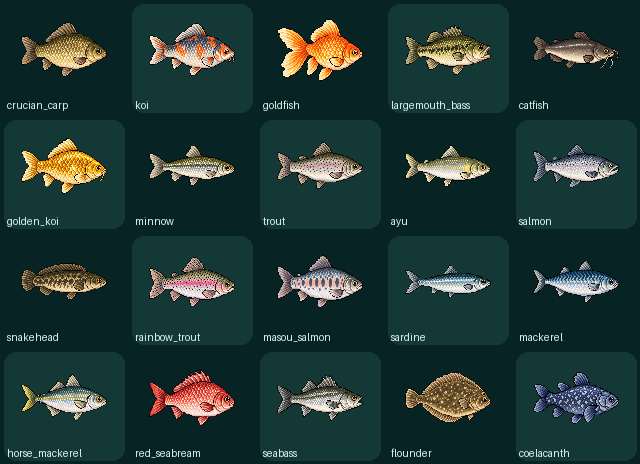
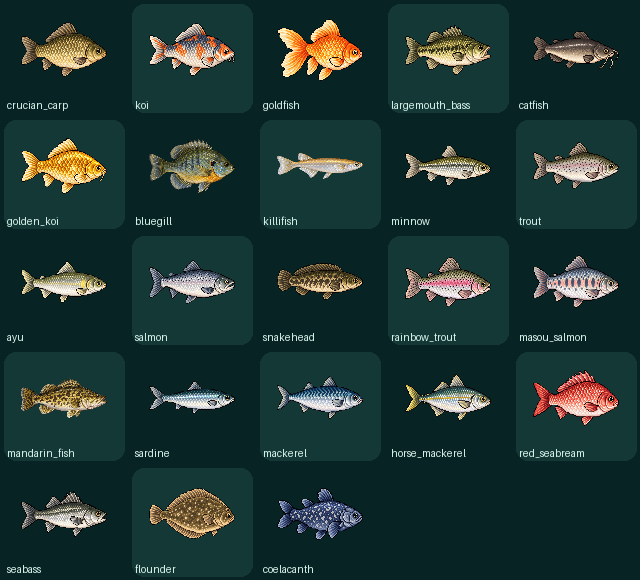
Add three fish to existing habitats

diff --git a/src/data/fish-data.js b/src/data/fish-data.js
@@ -42,6 +42,8 @@ const FISH_DATA=Object.freeze([
   defineFish({id:'fish.largemouth_bass',name:'큰입배스',emoji:'🐟',asset:'largemouth_bass',habitat:FISH_HABITATS.POND,rarity:FISH_RARITIES.UNCOMMON,periods:['DAY','DUSK'],weather:null,minSizeCm:20,maxSizeCm:65,basePrice:75,xp:12,weight:16,description:'연못의 포식자. 입질이 강렬하다.',introducedVersion:'baseline-v1'}),
   defineFish({id:'fish.catfish',name:'메기',emoji:'🐟',asset:'catfish',habitat:FISH_HABITATS.POND,rarity:FISH_RARITIES.RARE,periods:['NIGHT'],weather:['rain','storm'],minSizeCm:25,maxSizeCm:100,basePrice:160,xp:20,weight:7,description:'비 오는 밤에만 모습을 드러내는 연못의 그림자다.',introducedVersion:'baseline-v1'}),
   defineFish({id:'fish.golden_koi',name:'황금잉어',emoji:'🐠',asset:'golden_koi',habitat:FISH_HABITATS.POND,rarity:FISH_RARITIES.HEROIC,periods:['DAWN'],weather:['clear'],minSizeCm:30,maxSizeCm:90,basePrice:420,xp:40,weight:2,description:'새벽 연못에 떠오르는 황금빛 행운이다.',introducedVersion:'baseline-v1'}),
+  defineFish({id:'fish.bluegill',name:'블루길',emoji:'🐟',asset:'bluegill',habitat:FISH_HABITATS.POND,rarity:FISH_RARITIES.COMMON,periods:null,weather:null,minSizeCm:8,maxSizeCm:28,basePrice:22,xp:8,weight:28,description:'파란 볼이 매력적인 연못의 단골이다.',introducedVersion:'expansion'}),
+  defineFish({id:'fish.killifish',name:'송사리',emoji:'🐟',asset:'killifish',habitat:FISH_HABITATS.POND,rarity:FISH_RARITIES.COMMON,periods:['DAY'],weather:null,minSizeCm:2,maxSizeCm:6,basePrice:18,xp:8,weight:22,description:'수면 위를 총총 뛰어다니는 작은 물고기다.',introducedVersion:'expansion'}),
 
   // Forest river
   defineFish({id:'fish.minnow',name:'피라미',emoji:'🐟',asset:'minnow',habitat:FISH_HABITATS.RIVER,rarity:FISH_RARITIES.COMMON,periods:null,weather:null,minSizeCm:6,maxSizeCm:18,basePrice:20,xp:8,weight:35,description:'숲 강에서 가장 흔한 작은 물고기다.',introducedVersion:'baseline-v1'}),
@@ -51,6 +53,7 @@ const FISH_DATA=Object.freeze([
   defineFish({id:'fish.snakehead',name:'가물치',emoji:'🐟',asset:'snakehead',habitat:FISH_HABITATS.RIVER,rarity:FISH_RARITIES.RARE,periods:['NIGHT'],weather:null,minSizeCm:30,maxSizeCm:100,basePrice:145,xp:20,weight:8,description:'밤의 강을 지배하는 사나운 포식자다.',introducedVersion:'baseline-v1'}),
   defineFish({id:'fish.rainbow_trout',name:'무지개송어',emoji:'🐠',asset:'rainbow_trout',habitat:FISH_HABITATS.RIVER,rarity:FISH_RARITIES.RARE,periods:['DAY','DUSK'],weather:['rain'],minSizeCm:20,maxSizeCm:70,basePrice:180,xp:20,weight:6,description:'비 오는 날 무지개처럼 빛나는 송어다.',introducedVersion:'baseline-v1'}),
   defineFish({id:'fish.masou_salmon',name:'산천어',emoji:'🐟',asset:'masou_salmon',habitat:FISH_HABITATS.RIVER,rarity:FISH_RARITIES.HEROIC,periods:['DAWN'],weather:['clear'],minSizeCm:15,maxSizeCm:45,basePrice:360,xp:40,weight:2,description:'새벽 강물에 떠오르는 붉은 점의 귀빈이다.',introducedVersion:'baseline-v1'}),
+  defineFish({id:'fish.mandarin_fish',name:'쏘가리',emoji:'🐟',asset:'mandarin_fish',habitat:FISH_HABITATS.RIVER,rarity:FISH_RARITIES.COMMON,periods:null,weather:null,minSizeCm:15,maxSizeCm:50,basePrice:38,xp:8,weight:25,description:'맑은 강바닥에 숨어사는 자존심 강한 물고기다.',introducedVersion:'expansion'}),
 
   // Coast
   defineFish({id:'fish.sardine',name:'정어리',emoji:'🐟',asset:'sardine',habitat:FISH_HABITATS.COAST,rarity:FISH_RARITIES.COMMON,periods:null,weather:null,minSizeCm:10,maxSizeCm:25,basePrice:25,xp:8,weight:35,description:'해안의 대표 소형어. 떼로 몰려다닌다.',introducedVersion:'baseline-v1'}),

diff --git a/src/assets.js b/src/assets.js
@@ -310,6 +310,8 @@ const FISH_URLS = Object.freeze({
   largemouth_bass: 'assets/fishing/largemouth_bass.png',
   catfish: 'assets/fishing/catfish.png',
   golden_koi: 'assets/fishing/golden_koi.png',
+  bluegill: 'assets/fishing/bluegill.png',
+  killifish: 'assets/fishing/killifish.png',
   minnow: 'assets/fishing/minnow.png',
   trout: 'assets/fishing/trout.png',
   ayu: 'assets/fishing/ayu.png',
@@ -317,6 +319,7 @@ const FISH_URLS = Object.freeze({
   snakehead: 'assets/fishing/snakehead.png',
   rainbow_trout: 'assets/fishing/rainbow_trout.png',
   masou_salmon: 'assets/fishing/masou_salmon.png',
+  mandarin_fish: 'assets/fishing/mandarin_fish.png',
   sardine: 'assets/fishing/sardine.png',
   mackerel: 'assets/fishing/mackerel.png',
   horse_mackerel: 'assets/fishing/horse_mackerel.png',

diff --git a/src/fish-dex.js b/src/fish-dex.js
@@ -42,7 +42,8 @@ function renderFishDexReward(discovered){
   const nextReward=FISH_COLLECTION_REWARDS.find(reward=>discovered<reward.count);
   if(!nextReward){
     rewardPanel.className='fishDexReward complete';
-    rewardPanel.innerHTML='<div><small>COLLECTION COMPLETE</small><b>🏆 강태공 · 모든 도감 보상 완료</b></div><span>20 / 20</span>';
+    const complete=discovered===FISH_DATA.length;
+    rewardPanel.innerHTML=`<div><small>${complete?'CURRENT COLLECTION COMPLETE':'LEGACY REWARDS COMPLETE'}</small><b>🏆 강태공 · 기존 20종 도감 보상 완료</b></div><span>${discovered} / ${FISH_DATA.length}</span>`;
     return;
   }
   const progress=Math.min(100,discovered/nextReward.count*100);

diff --git a/scripts/process-fish-assets.py b/scripts/process-fish-assets.py
@@ -1,4 +1,5 @@
 from pathlib import Path
+from math import ceil
 
 from PIL import Image, ImageDraw
 
@@ -13,6 +14,8 @@ FISH_NAMES = [
     "largemouth_bass",
     "catfish",
     "golden_koi",
+    "bluegill",
+    "killifish",
     "minnow",
     "trout",
     "ayu",
@@ -20,6 +23,7 @@ FISH_NAMES = [
     "snakehead",
     "rainbow_trout",
     "masou_salmon",
+    "mandarin_fish",
     "sardine",
     "mackerel",
     "horse_mackerel",
@@ -51,7 +55,7 @@ def normalize_sprite(source_path: Path) -> Image.Image:
 
 def build_contact_sheet(sprites: dict[str, Image.Image]) -> None:
     cell_width, cell_height = 128, 116
-    sheet = Image.new("RGBA", (cell_width * 5, cell_height * 4), (8, 35, 35, 255))
+    sheet = Image.new("RGBA", (cell_width * 5, cell_height * ceil(len(FISH_NAMES) / 5)), (8, 35, 35, 255))
     draw = ImageDraw.Draw(sheet)
     for index, name in enumerate(FISH_NAMES):
         x = (index % 5) * cell_width

diff --git a/docs/HANDOFF.md b/docs/HANDOFF.md
@@ -44,11 +44,12 @@
 
 ### 낚시 74종 확장 설계
 
-- 10개 서식지, 기존 20종을 포함한 총 74종과 신규 54종의 정정 로스터를 [`FISHING_74_EXPANSION_DESIGN.md`](FISHING_74_EXPANSION_DESIGN.md)에 확정했다. 10개 서식지 메타데이터와 74종 목표 명단은 코드 데이터로 옮겼지만, 신규 54종의 실제 출현·그림·맵은 아직 적용하지 않았다.
+- 10개 서식지, 기존 20종을 포함한 총 74종과 신규 54종의 정정 로스터를 [`FISHING_74_EXPANSION_DESIGN.md`](FISHING_74_EXPANSION_DESIGN.md)에 확정했다. 10개 서식지 메타데이터와 74종 목표 명단은 코드 데이터로 옮겼으며, 신규 54종 중 블루길·송사리·쏘가리 3종이 먼저 적용되어 현재 실제 게임은 23종이다.
 - 12절 1단계 `현행 기준 고정`은 완료했다. [`FISHING_BASELINE_V1.json`](FISHING_BASELINE_V1.json)과 `scripts/qa-fishing-baseline.mjs`가 신규 항목 추가를 막지 않으면서 기존 20종·6개 낚싯대의 데이터, 5/10/15/19/20 보상, 이미지, 도감 탭, 결과 효과, 캐릭터 낚시 시작, 36개 기존 조건의 100% 획득, 저장 정규화를 보호한다. 화면과 실제 어종 수는 바꾸지 않았다.
-- 12절 2단계 `10개 서식지 데이터 기반`도 완료했다. `src/data/fishing-habitat-data.js`가 `내륙 / 해안 / 원양`, 10개 서식지의 표시명·순서·권장 레벨·목표 수량, 74종 목표 명단을 관리한다. 기존 20종 설명은 `fish-data.js`로 옮겼고 도감이 그 값을 직접 읽는다. 전용 검사는 설계 문서 표와 코드 데이터를 비교하며 현재 런타임이 여전히 20종인지도 확인한다.
+- 12절 2단계 `10개 서식지 데이터 기반`도 완료했다. `src/data/fishing-habitat-data.js`가 `내륙 / 해안 / 원양`, 10개 서식지의 표시명·순서·권장 레벨·목표 수량, 74종 목표 명단을 관리한다. 기존 설명은 `fish-data.js`에 있으며 도감이 직접 읽는다. 전용 검사는 설계 문서 표와 코드 데이터를 비교하고 현재 승격된 3종을 포함한 런타임 23종도 확인한다.
 - 12절 3단계 `도감 확장 골격`도 완료했다. 상단 `전체 / 내륙 / 해안 / 원양`과 분류별 최대 3열 서식지 버튼을 사용한다. 전체는 현재 연못·강·바다 구역으로 나뉘고 한 번에 열린 구역 하나의 카드만 렌더링한다. 미래 서식지는 분류 화면에서 목표 종 수와 `준비 중`으로 보이며 신규 54종 카드는 아직 만들지 않는다.
 - 12절 4단계 `지점 기반 서식지 판정`도 완료했다. 각 물 영역의 고유 ID와 `fishingHabitat`을 사용하며 캐스팅 시 `regionId + spotId + habitat + period + weather`를 고정한다. 마을·농장은 연못, 기존 12개 숲은 강 풀을 그대로 사용한다. 한 시험 맵 안의 연못·해안 물가가 서로 다른 풀을 고르는 자동 검사도 추가했다.
+- 12절 5단계 `기존 맵 신규 3종`도 완료했다. 연못에 블루길·송사리, 강에 쏘가리를 추가해 23종이 실제 출현한다. 세 어종의 96×96 투명 그림, 낚시 결과·가방·판매·도감·저장 경로를 연결했고 기존 20종 보상선은 유지했다.
 - 기존 20종 ID와 저장, 입질 후 100% 획득, 낮은 낚싯대의 전설어 가능성은 유지한다. 산천어 ID 오타, 볼락·우럭 ID 중복, 도미 계열 중복과 일부 설명을 정정했다.
 - 장기 구조는 육지 물가 6곳, 어선의 얕은·중간·심해 3곳, 빙하 1곳이다. 플레이어가 배를 건조·조종하지 않고 마을 항구에서 목적지별 승선권을 사서 출항한다. 목적지는 항구에서만 정하며 낚싯대는 효율 장비다.
 - 항구의 실제 배에서 짧은 출항 연출 뒤 전용 갑판 맵으로 이동한다. 캐릭터는 공통 갑판을 걸어 다니며 여러 난간에서 기존 연못과 같은 조작으로 낚시한다. 조타 장치로 목적지를 변경하지 않는다.
@@ -64,6 +65,7 @@ node scripts/qa-fishing-baseline.mjs
 node scripts/qa-fishing-expansion-data.mjs
 node scripts/qa-fish-dex.mjs
 node scripts/qa-fishing-spots.mjs
+node scripts/qa-fishing-new-three.mjs
 node scripts/check.mjs
 node scripts/build.mjs
 node scripts/qa-forestry-tier4-10.mjs
@@ -78,7 +80,7 @@ node scripts/simulate-forestry-balance.mjs
 
 ### 다음 권장 작업
 
-낚시 확장 1~4단계는 완료했다. 다음 코드 작업은 [`FISHING_74_EXPANSION_DESIGN.md`](FISHING_74_EXPANSION_DESIGN.md)의 **12절 5단계 `기존 맵 신규 3종`**이다. 연못에 블루길·송사리, 강에 쏘가리의 실제 데이터와 96×96 그림을 추가해 23종으로 확장한다. 낚시 결과·가방·판매·도감·저장과 기존 5/10/15/19/20종 보상 플래그를 검증하고, 신규 3종이 원래 서식지 밖의 풀에 섞이지 않게 한다. 그다음 해안·항구 → 산악 호수 → 폭포 → 늪지 → 얕은 바다 어선 수직 슬라이스 → 중간·심해·빙하 → 도감 보상·밸런스 → 낚싯대 7~10단계 → 낚싯대 내구력 순서로 진행한다. 벌목 Android 체감 확인은 보류된 수동 QA로 남긴다.
+낚시 확장 1~5단계는 완료했다. 다음 코드 작업은 [`FISHING_74_EXPANSION_DESIGN.md`](FISHING_74_EXPANSION_DESIGN.md)의 **12절 6단계 `해안·마을 항구 맵`**이다. 마을과 왕복 가능한 해안 지역에 정박한 배·선장·매표소와 해안 낚시 지점을 배치하고, 볼락·우럭을 추가해 기존 해안 어종을 실제 바다에서 잡게 한다. 승선권 UI는 자리만 준비하고 아직 출항시키지 않는다. 연못·강·해안 접근과 저장 복원이 안정되면 마을 연못의 전체 어종 임시 출현을 끈다. 그다음 산악 호수 → 폭포 → 늪지 → 얕은 바다 어선 수직 슬라이스 → 중간·심해·빙하 → 도감 보상·밸런스 → 낚싯대 7~10단계 → 낚싯대 내구력 순서다. 벌목 Android 체감 확인은 보류된 수동 QA로 남긴다.
 
 1. **완료:** 내구도·파손·빈손·마을 수리·부분 수리·저장 이행과 롤백을 구현했다. 기본 도끼는 무한이며 유료 도끼는 나무 단계만큼 감소한다. 수리비를 약 1.5배 올린 뒤 진행은 평균 7,262그루·약 9시간 51분·Lv.80이고 고정 1개 드롭도 Lv.95다. 8~10단계 판매가 `285/340/400`에서 수리비 포함 역주행도 없다. 자세한 기준은 `FORESTRY_10_STAGE_BALANCE_SIMULATION.md`에 있다.
 2. 대표 구간을 Android에서 확인해 같은 단계 나무 타수, 단계 상승 직후 타수 감소, 나무 사이 이동·선택 시간과 **도보 귀환/100코인 귀환석 각각의 수리 왕복 시간**을 잰다. 측정값을 시뮬레이터의 `--tree-overhead`에 넣고 내구도 26~36그루 주기와 귀환석 가격이 실제로 적절한지 판단한다.
@@ -93,6 +95,8 @@ node scripts/simulate-forestry-balance.mjs
 - `axe.master` 내부 ID는 저장 호환 때문에 유지하며 화면 표시명만 `청금 도끼`다.
 - `dist/index.html`은 생성 파일이므로 직접 수정하거나 커밋하지 않는다.
 - 기존 나무 ID·종·HP, 보유 장비 ID, 저장 키를 강제로 초기화하지 않는다.
+
+2026-10-07 낚시 확장 5단계 완료: 연못의 블루길·송사리와 강의 쏘가리를 실제 데이터·출현 풀·이미지 로더에 연결해 런타임을 23종으로 늘렸다. 신규 원본은 `assets/fishing/source/`, 게임용 투명 96×96 이미지는 `assets/fishing/`에 보관하며 23종 접촉 시트를 갱신했다. 강제 획득 결과, 가방, 판매, 도감 기록, 저장 복원과 서식지 분리를 전용 검사로 확인했다. 기존 20종 데이터와 5/10/15/19/20종 보상은 유지하며, 20종 보상 완료 뒤에도 도감 진행도는 23종 전체를 정확히 표시한다. 다음은 6단계 해안·마을 항구 맵이다.
 
 2026-10-07 낚시 확장 4단계 완료: 모든 현재 물 영역에 안정적인 지점 ID와 `fishingHabitat`을 명시했다. `src/fishing-spots.js`가 캐스팅한 타일을 물 영역에 대응시키고, 낚시 문맥을 `regionId + spotId + habitat + period + weather`로 고정한다. 마을·농장은 기존 연못, 12개 숲은 기존 강 결과를 유지한다. 월드 검증은 물 영역 ID·서식지 누락과 서로 다른 서식지 영역의 겹침을 막으며, 전용 검사는 한 맵의 연못·해안 두 물가 분리, 잘린 모서리·마른 타일 제외, 이전 지역 기본값과 캐스팅 뒤 문맥 불변을 확인한다. 다음은 5단계 기존 맵 신규 3종이다.
 
@@ -343,10 +347,10 @@ node scripts/serve.mjs
 - 낚싯대를 장착한 채 물을 바라보고 상호작용하면 낚시 시작. 도끼 장착 시에는 물가에서도 도끼 휘두름.
 - 캐스팅 0.32초 → 기본 낚싯대 기준 랜덤 3~6초 대기 → 입질 → 버튼 입력 → 100% 획득. 장착 낚싯대의 대기 감소 효과는 이 범위에 적용된다.
 - 낚싯줄, 찌, 입질 `!` 연출. 투척 중·입질 대기 중·입질 시 상황 설명 문구는 숨기고, 입질은 효과음과 찌 옆의 `!`로만 알린다. 취소·상호작용 버튼은 유지한다.
-- 공식 20종 물고기를 `src/data/fish-data.js`에 데이터로 분리
+- 기존 20종을 보존하고 신규 3종을 더한 공식 23종 물고기를 `src/data/fish-data.js`에 데이터로 분리
 - 캐스팅한 물 영역의 지점 ID·서식지와 시작 시점 시간대·날씨로 Fish Pool을 고정한 뒤 상대 Weight로 추첨
 - 같은 어종이 3회 연속 나오면 다음 추첨부터 해당 Weight를 절반으로 낮추고, 다른 어종이 나오면 해제
-- 새 바닷가 맵과 지역별 어종 밸런스가 정리되기 전에는 마을 연못에서 20종 모두 등장할 수 있다. `src/fishing.js`의 `FISHING_CONFIG.temporaryAllFishAtVillagePond`가 마을에서만 지역 조건을 임시로 풀며 시간·날씨·Weight는 유지한다. 숲의 강과 농장 연못은 각자의 출현 풀을 사용한다. 바닷가 확장 시 이 플래그와 도감 임시 안내를 다시 검토한다.
+- 새 바닷가 맵과 지역별 어종 밸런스가 정리되기 전에는 마을 연못에서 현재 23종 모두 등장할 수 있다. `src/fishing.js`의 `FISHING_CONFIG.temporaryAllFishAtVillagePond`가 마을에서만 지역 조건을 임시로 풀며 시간·날씨·Weight는 유지한다. 숲의 강과 농장 연못은 각자의 출현 풀을 사용한다. 바닷가 확장 시 이 플래그와 도감 임시 안내를 다시 검토한다.
 - 모든 어종에 공통 크기·가격 계산 적용
 - 어종별 낚시 XP를 누적하고 Lv.100 및 이후 숙련도까지 계산 (Lv.21 이후 요구량은 임시 밸런스)
 - 첫 발견, 획득 수, 최소·최대·평균 크기를 `GAME_STATE.collections.fish`에 기록
@@ -357,12 +361,12 @@ node scripts/serve.mjs
 - 레벨업 알림은 약 5초 유지되며 X·취소키·Android 뒤로가기로 즉시 닫힘
 - 낚시 투척·입질·획득, 레벨업, 상점 판매 성공과 도끼·검/옷·가방/낚싯대 장착에는 총 여덟 개의 짧은 MP3를 연결한다. 모바일 재생 지연 완화를 위해 로딩 시 Web Audio 버퍼로 미리 디코딩하고 첫 조작에서 오디오 컨텍스트를 활성화한다. 미지원·로딩 실패 시 HTML 오디오로 재생한다. 단일 HTML 빌드에도 여덟 음원을 포함한다. 벌목 타격·쓰러짐, 도끼 파손, 나무 발견과 희귀도 축하음은 별도 Web Audio 합성음으로 유지한다. 경로·용도·출처는 [`AUDIO_ASSETS.md`](AUDIO_ASSETS.md) 참조.
 - 첫 발견은 `NEW` 배지와 도감 등록 문구로 구분
-- 월드 메뉴의 물고기 도감에서 전체 20종과 `전체 / 내륙 / 해안 / 원양` 대분류, 분류별 서식지 버튼을 제공한다. 전체 화면은 연못·강·바다 접이식 구역이며 열린 구역 카드만 렌더링한다.
+- 월드 메뉴의 물고기 도감에서 전체 23종과 `전체 / 내륙 / 해안 / 원양` 대분류, 분류별 서식지 버튼을 제공한다. 전체 화면은 연못·강·바다 접이식 구역이며 열린 구역 카드만 렌더링한다.
 - 도감 상세 서식지는 원래 분류를 유지하며, 상단에 모든 어종의 마을 연못 임시 출현 안내를 표시한다. 신규 서식지는 실제 어종 추가 전까지 분류 화면에서 `준비 중`으로 보인다.
 - 발견 어종은 설명·등급·획득 수·최소·최대·평균 크기·출현 조건 표시
 - 도감 카드를 누르면 중앙 상세 팝업이 열리고, X·뒤로가기로 목록에 복귀
 - 미발견 어종은 `???` 카드와 서식지·시간·날씨 힌트 표시
-- 20종 전용 96×96 투명 픽셀 아트를 도감 카드·상세 화면·낚시 결과에 연결
+- 23종 전용 96×96 투명 픽셀 아트를 도감 카드·상세 화면·낚시 결과에 연결
 - 생성 원본은 `assets/fishing/source/`, 게임용 정규화 파일은 `assets/fishing/`에 분리
 - 도감 5종은 코인 300, 10종은 Fishing XP 240, 15종은 희귀어 상세 힌트, 19종은 마지막 단서, 20종은 강태공 칭호와 특별 낚싯대 지급
 - 도감 상단에 다음 보상과 진행 막대를 표시하며, 보상은 저장 플래그로 한 번만 자동 지급
@@ -390,7 +394,7 @@ node scripts/serve.mjs
 
 낚시가 완성된 상태는 아니다. 현재 코드는 전체 시스템을 검증하기 위한 첫 수직 슬라이스다.
 
-- [`FISHING_74_EXPANSION_DESIGN.md`](FISHING_74_EXPANSION_DESIGN.md)의 신규 54종·배·빙하·확장 도감. 10개 서식지와 74종 목표 데이터는 연결했지만 실제 신규 어종·맵·이미지·확장 UI는 미구현
+- [`FISHING_74_EXPANSION_DESIGN.md`](FISHING_74_EXPANSION_DESIGN.md)의 총 74종·배·빙하·확장 도감. 10개 서식지와 74종 목표 데이터, 신규 3종은 연결했지만 나머지 51종·신규 맵·항구·어선은 미구현
 - 씨앗 외 추가 구매 품목과 요리
 - 벌목 도끼 3단계·상점 업그레이드·종별 목재 가격과 4방향×2프레임 전용 캐릭터 모션을 연결했다. 수치와 도끼 손 위치는 모바일 플레이 테스트 후 조정 가능하다. 농사는 이미 플레이 가능하지만 성장 스킬의 분류는 별도 결정이 필요하다. 확정 설계의 초기 6개 스킬에 Farming은 없고 향후 확장 목록에 있다.
 
@@ -427,13 +431,14 @@ node scripts/serve.mjs
 | `docs/FISHING_74_EXPANSION_DESIGN.md` | 10개 서식지·74종 정정 로스터, 배·도감·확률·저장 이행과 단계별 구현 계약 |
 | `src/data/fishing-habitat-data.js` | 내륙·해안·원양 분류, 10개 서식지 메타데이터와 74종 목표 명단 |
 | `src/fishing-spots.js` | 물 영역 좌표에서 안정적인 낚시 지점 ID와 서식지 판정, 이전 지역 기본값 |
-| `src/data/fish-data.js` | 실제 출현 중인 20종 물고기, 설명·서식지·시간·날씨·Weight·보상 데이터 |
+| `src/data/fish-data.js` | 실제 출현 중인 23종 물고기, 설명·서식지·시간·날씨·Weight·보상 데이터 |
 | `src/data/fishing-gear-data.js` | 낚싯대 6종, 레벨·도감 해금 조건과 효과 데이터 |
 | `src/data/life-skill-data.js` / `src/life-skills.js` | 공통 생활 스킬 메타데이터와 Lv.1–100·숙련도 성장 계산 |
 | `src/skill-ui.js` | 공통 스킬 경험치 카드, +XP·100%·레벨업 연출 |
-| `assets/fishing/*.png` | 도감·결과 카드용 20종 96×96 투명 픽셀 아트 |
+| `assets/fishing/*.png` | 도감·결과 카드용 23종 96×96 투명 픽셀 아트 |
 | `assets/fishing/source/*.png` | 재가공을 위한 이미지 생성 원본 |
 | `scripts/process-fish-assets.py` | 원본 알파 정리, 96×96 정규화와 검토 시트 생성 |
+| `scripts/qa-fishing-new-three.mjs` | 블루길·송사리·쏘가리의 데이터·풀·획득·판매·도감·저장 회귀 검사 |
 | `src/world-time.js` | 30분 월드 시계, 시간대, 디버그 시간 UI |
 | `src/weather.js` | 날씨 확률·구간·디버그 고정 |
 | `src/fishing.js` | 낚시 상태 머신, Fish Pool·Weight 선택, XP·발견 통계와 도감 보상 지급 |

diff --git a/docs/FISHING_PLAN.md b/docs/FISHING_PLAN.md
@@ -6,9 +6,9 @@
 
 장기 확장 방향은 [`LONG_TERM_CONTENT_DESIGN.md`](LONG_TERM_CONTENT_DESIGN.md)를 따른다. 현재 낚싯대 6종을 보존하면서 향후 10단계로 확장하고, 낮은 장비의 초희귀어 출현 가능성을 유지하되 최종 확률을 시뮬레이션으로 확인한다. 1%·0.1%는 아직 확정 수치가 아니다. 수리 가능한 내구력도 미구현이며, 아래의 **입질 후 100% 획득**을 별도 승인 없이 실패/줄 끊김으로 바꾸지 않는다.
 
-74종·10개 서식지의 확정 로스터, 원안 오류 정정, 항구 승선권·시간제 어선, 지점 기반 서식지, 도감·저장 이행과 단계별 구현 순서는 [`FISHING_74_EXPANSION_DESIGN.md`](FISHING_74_EXPANSION_DESIGN.md)를 따른다. 현재 이 문서의 20종 수직 슬라이스와 확장 목표를 혼동하지 않는다.
+74종·10개 서식지의 확정 로스터, 원안 오류 정정, 항구 승선권·시간제 어선, 지점 기반 서식지, 도감·저장 이행과 단계별 구현 순서는 [`FISHING_74_EXPANSION_DESIGN.md`](FISHING_74_EXPANSION_DESIGN.md)를 따른다. 아래 20종은 확장 전 고정 기준선이며 현재 런타임에는 블루길·송사리·쏘가리가 더해져 23종이다.
 
-현재 구현 범위(2026-10-07): 물가 시작, 캐스팅, 기본 낚싯대 기준 랜덤 3~6초 대기, 입질, 100% 획득, 찌·낚싯줄, 모바일 취소와 아래 20종 데이터, 지점·시간·날씨별 Fish Pool/Weight 추첨, 같은 어종 3연속 보정, Lv.1–100·숙련도와 경험치 바·레벨업 연출, 발견·크기 통계, 저장·복원, 결과 카드, 2단 필터 도감·상세 팝업, 20종 전용 96×96 픽셀 아트, 5/10/15/19/20종 자동 보상, 희귀·영웅·전설 전용 결과 연출과 낚싯대 6종의 선택·효과·저장까지 동작한다. 각 물 영역은 고유 지점 ID와 서식지를 가지며, 마을·숲·농장 물가에서 낚시할 수 있다. 실제 코드 상태와 다음 순서는 `docs/HANDOFF.md`를 우선 확인한다.
+현재 구현 범위(2026-10-07): 물가 시작, 캐스팅, 기본 낚싯대 기준 랜덤 3~6초 대기, 입질, 100% 획득, 찌·낚싯줄, 모바일 취소와 23종 데이터, 지점·시간·날씨별 Fish Pool/Weight 추첨, 같은 어종 3연속 보정, Lv.1–100·숙련도와 경험치 바·레벨업 연출, 발견·크기 통계, 저장·복원, 결과 카드, 2단 필터 도감·상세 팝업, 23종 전용 96×96 픽셀 아트, 5/10/15/19/20종 자동 보상, 희귀·영웅·전설 전용 결과 연출과 낚싯대 6종의 선택·효과·저장까지 동작한다. 각 물 영역은 고유 지점 ID와 서식지를 가지며, 마을·숲·농장 물가에서 낚시할 수 있다. 실제 코드 상태와 다음 순서는 `docs/HANDOFF.md`를 우선 확인한다.
 
 이 문서는 낚시를 어렵게 만드는 대신, 결과·수집·성장·월드 변화가 재미를 만드는 방향을 고정한다. 낚시에서 검증한 시간, 날씨, 조건부 보상, 도감, 자원 획득 구조는 이후 벌목·채집·퀘스트에도 재사용한다.
 
@@ -116,9 +116,9 @@
 - PC: `Space`, `Z`, `Enter`
 - 이동 입력: 낚시 취소
 
-## 7. 첫 물고기 20종
+## 7. 기준선 20종과 현재 추가 3종
 
-Weight는 확률 퍼센트가 아니라 현재 조건에 해당하는 물고기끼리 비교하는 상대 가중치다. 먼저 지역·시간·날씨 조건으로 풀을 필터링한 뒤 가중치로 하나를 선택한다. 조건을 만족하는 공통 어종은 항상 남겨 100% 획득을 보장한다. 마을 연못은 신규 지역·어종 밸런스 전환 기간 동안 아래 20종의 지역 제한만 임시로 해제한다. 숲의 강은 강 어종 풀을, 농장 연못은 연못 어종 풀을 사용한다. 각 어종의 시간·날씨 조건과 Weight는 유지하며, 도감의 서식지 표시는 원래 분류다. 바닷가 및 어종 배치가 완성되면 `FISHING_CONFIG.temporaryAllFishAtVillagePond`와 도감 임시 안내를 제거할지 재검토한다.
+Weight는 확률 퍼센트가 아니라 현재 조건에 해당하는 물고기끼리 비교하는 상대 가중치다. 먼저 지역·시간·날씨 조건으로 풀을 필터링한 뒤 가중치로 하나를 선택한다. 조건을 만족하는 공통 어종은 항상 남겨 100% 획득을 보장한다. 아래 표는 확장 전 20종 회귀 기준선이며, 현재는 연못의 블루길(상시)·송사리(낮)와 강의 쏘가리(상시)가 일반 등급으로 추가됐다. 마을 연못은 지역 전환 기간 동안 현재 23종의 지역 제한만 임시로 해제한다. 숲의 강은 강 어종 풀을, 농장 연못은 연못 어종 풀을 사용한다. 각 어종의 시간·날씨 조건과 Weight는 유지하며, 도감의 서식지 표시는 원래 분류다. 바닷가 및 어종 배치가 완성되면 `FISHING_CONFIG.temporaryAllFishAtVillagePond`와 도감 임시 안내를 제거할지 재검토한다.
 
 ### 마을 연못
 

diff --git a/QA_REPORT.md b/QA_REPORT.md
@@ -6,6 +6,14 @@
 
 지원 기준: Android 세로 화면, 키보드 보조 입력, GitHub Pages
 
+## 기존 맵 신규 어종 3종 (2026-10-07, 로컬)
+
+- 연못에 블루길(상시)·송사리(낮), 강에 쏘가리(상시)를 일반 등급으로 추가해 실제 런타임과 도감을 20종에서 23종으로 확장했다. 농장 연못과 숲의 강은 각 서식지 어종만 고르며 해안 풀에는 세 어종이 들어가지 않는다.
+- 내장 이미지 생성으로 투명 원본 3장을 만든 뒤 96×96 게임용 PNG로 정규화했다. 전체 23종 접촉 시트에서 잘림·불투명 배경·크기 불균형을 확인하지 못했다. 제작 프롬프트와 원본 경로는 `assets/fishing/source/README.md`에 기록했다.
+- 세 어종을 디버그 강제 획득했을 때 결과·개체별 가방 기록·도감 통계·저장이 함께 생성되고, 저장 정규화 뒤에도 남는지 확인했다. 상점 데이터 조회와 실제 수량·가격 기준 판매 계획도 세 어종 모두 통과했다.
+- 기존 20종 데이터와 6개 낚싯대 기준선, 5/10/15/19/20종 보상은 바꾸지 않았다. 20종 보상을 모두 받은 뒤에도 도감은 `기존 20종 보상 완료`와 현재 진행 `20/23`을 구분한다.
+- `node scripts/qa-fishing-new-three.mjs`, 74종 데이터·기존 20종 기준선·지점 검사, 전체 검사와 독립 빌드를 통과했다. 393×780·320×568 도감 브라우저 검사에서도 연못/강/해안 `8/8/7`, 총 23종, `20/23` 기존 보상 완료 표시, 화면 넘침 없음과 브라우저 오류 0건을 확인했다.
+
 ## 낚시 지점 기반 서식지 판정 (2026-10-07, 로컬)
 
 - 모든 현재 물 영역에 안정적인 지점 ID와 `fishingHabitat`을 연결했다. 마을·농장은 연못, 기존 12개 숲은 강 풀을 그대로 사용한다.
@@ -15,7 +23,7 @@
 
 ## 낚시 도감 확장 골격 (2026-10-07, 로컬)
 
-- 기존 한 줄 `전체 / 연못 / 강 / 바다` 필터를 `전체 / 내륙 / 해안 / 원양` 상단 분류와 분류별 최대 3열 서식지 버튼으로 바꿨다. 실제 물고기는 여전히 연못 6종·강 7종·바다 7종, 총 20종이다.
+- 기존 한 줄 `전체 / 연못 / 강 / 바다` 필터를 `전체 / 내륙 / 해안 / 원양` 상단 분류와 분류별 최대 3열 서식지 버튼으로 바꿨다. 이 3단계 완료 당시 물고기는 연못 6종·강 7종·바다 7종, 총 20종이었으며 현재 수량은 위 신규 3종 절을 따른다.
 - 전체 화면은 연못·강·바다 접이식 구역으로 나누고 열린 구역 하나의 카드만 생성한다. 미래에 74종이 되어도 전체 카드를 동시에 길게 렌더링하지 않는다. 내륙과 원양의 미구현 서식지는 목표 종 수와 `준비 중` 안내만 표시한다.
 - 393×780과 320×568 브라우저에서 상단 4개 버튼 한 줄, 서식지 버튼 최대 3열, 구역 전환 시 `6/7/7` 카드, 빈 원양 화면, 심해 목표 8종, 상세 팝업과 브라우저 뒤로가기, 화면 넘침 없음과 도감 탐색 중 게임 상태 불변을 확인했다. 브라우저 오류는 0건이다.
 - `node scripts/qa-fish-dex.mjs`, 낚시 기준선·74종 데이터 검사, 전체 검사와 독립 빌드를 통과했다. Android 실기기 확인으로 대체하지는 않는다.
@@ -25,7 +33,7 @@
 - `내륙 / 해안 / 원양` 3개 분류와 10개 서식지의 ID·표시명·정렬·권장 레벨·목표 수량, 74종 목표 로스터를 코드 데이터로 연결했다. 신규 54종은 목표 명단에만 있으며 실제 `FISH_DATA`, 이미지 로더, 낚시 풀에는 아직 들어가지 않는다.
 - 설계 문서의 74종 표를 검사기가 직접 해석해 코드 데이터와 비교한다. 전체 74종·신규 54종·서식지별 `8/8/7/8/7/7/7/7/8/7`, 등급 분포, ID/이름/에셋 유일성, 시간·날씨 값과 10개 서식지의 모든 시간/날씨 목표 풀이 비지 않는지 확인했다.
 - 기존 20종 설명을 `fish-dex.js`의 별도 객체에서 `fish-data.js`로 옮겨 도감이 데이터 설명을 직접 읽게 했다. 실러캔스의 목표 서식지는 심해로 기록했지만 실제 출현은 향후 심해 노선 단계까지 기존 해안으로 유지한다.
-- 전용 데이터 검사, 기존 낚시 기준선, 전체 검사와 독립 빌드를 통과했다. 실제 런타임 어종 수는 20종이고 에셋 수와 화면 구조는 바뀌지 않았다.
+- 이 2단계 완료 당시 전용 데이터 검사, 기존 낚시 기준선, 전체 검사와 독립 빌드를 통과했다. 당시 런타임 어종 수는 20종이었으며 현재 수량은 위 신규 3종 절을 따른다.
 
 ## 낚시 74종 확장 기준선 (2026-10-07, 로컬)
 

diff --git a/README.md b/README.md
@@ -1,6 +1,6 @@
 # Pixel Life
 
-세로형 모바일 화면을 기준으로 제작 중인 탑다운 픽셀 생활 어드벤처입니다. 라일락 연못 마을에서 서로 다른 경관의 숲 12개와 햇살 농장으로 이동할 수 있으며, 낚시와 벌목·농사·상점 거래를 즐길 수 있습니다. 월드 시간·날씨, 물고기 20종, 나무 50종, 도감·저장·성장 장비가 연결되어 있습니다.
+세로형 모바일 화면을 기준으로 제작 중인 탑다운 픽셀 생활 어드벤처입니다. 라일락 연못 마을에서 서로 다른 경관의 숲 12개와 햇살 농장으로 이동할 수 있으며, 낚시와 벌목·농사·상점 거래를 즐길 수 있습니다. 월드 시간·날씨, 물고기 23종, 나무 50종, 도감·저장·성장 장비가 연결되어 있습니다.
 
 - 공개 게임: https://sidebatch.github.io/pixel-life/
 - 문서 안내: [`docs/README.md`](docs/README.md)
@@ -27,6 +27,7 @@ node scripts/qa-fishing-baseline.mjs
 node scripts/qa-fishing-expansion-data.mjs
 node scripts/qa-fish-dex.mjs
 node scripts/qa-fishing-spots.mjs
+node scripts/qa-fishing-new-three.mjs
 node scripts/check.mjs
 node scripts/build.mjs
 ```
@@ -55,7 +56,7 @@ src/
   data/life-content-data.js 나무·밭·작물·가격 설정
   data/fishing-habitat-data.js 10개 서식지와 74종 목표 명단
   fishing-spots.js   물 영역별 낚시 지점 ID·서식지 판정
-  data/fish-data.js  실제 물고기 20종, 설명, 출현 조건, 보상 데이터
+  data/fish-data.js  실제 물고기 23종, 설명, 출현 조건, 보상 데이터
   data/fishing-gear-data.js 낚싯대 6종과 해금·효과 데이터
   data/life-skill-data.js 생활 스킬 6종 메타데이터와 임시 XP 요구량
   life-skills.js     공통 Lv.1–100·숙련도 성장 계산
@@ -100,13 +101,13 @@ dist/index.html      생성되는 독립 실행형 배포 파일
 - 월드 배치 자동 검사와 F3 디버그 오버레이
 - 현실 30분 기준 월드 시계와 시간대별 화면·조명
 - 맑음·비·폭풍 자동 날씨와 화면 전체 강수 효과
-- 물고기 20종 데이터와 낚시 지점·시간·날씨별 Fish Pool. 각 물 영역은 안정적인 지점 ID와 서식지를 가지며, 강·바다 맵 추가 전까지는 마을 연못에서 20종 모두 낚을 수 있도록 서식지 제한만 임시 해제(시간·날씨 조건 유지)
+- 물고기 23종 데이터와 낚시 지점·시간·날씨별 Fish Pool. 기존 20종에 연못의 블루길·송사리와 강의 쏘가리를 추가했다. 각 물 영역은 안정적인 지점 ID와 서식지를 가지며, 해안 맵 추가 전까지는 마을 연못에서 현재 어종 모두를 미리 잡을 수 있도록 서식지 제한만 임시 해제한다(시간·날씨 조건 유지)
 - 상대 Weight 추첨과 같은 어종 3연속 보정
 - 낚시 XP·레벨, 발견·크기 통계, 로컬 저장·복원
 - 낚시 Lv.1–100·숙련도와 +XP·100% 경험치 바·레벨업 안내 (Lv.21 이후 XP는 임시 밸런스)
 - `전체 / 내륙 / 해안 / 원양`과 3열 서식지 필터, 접이식 서식지 구역이 있는 물고기 도감
 - 발견 물고기 중앙 상세 팝업과 X·뒤로가기 닫기
-- 물고기 20종 전용 96×96 픽셀 아트
+- 물고기 23종 전용 96×96 픽셀 아트
 - 5·10·15·19·20종 도감 누적 보상과 단계별 힌트
 - 희귀·영웅·전설 결과 카드의 등급별 파티클·등장 애니메이션·합성 효과음
 - 물가 낚시 루프, 찌·입질·결과 카드·모바일 취소
@@ -132,11 +133,10 @@ dist/index.html      생성되는 독립 실행형 배포 파일
 
 - 대표 구간을 Android에서 플레이해 단계별 타수·획득 시간·XP·코인과 도보/귀환석 수리 왕복 시간을 측정하고 자동 시뮬레이션의 나무당 2초 가정을 조정
 - Android 비행기 모드에서 PWA 오프라인 재실행을 최종 확인
-- 나무 도감의 11·20·30·40·50종 영구 마일스톤 보상 내용을 확정
 - 낮은 도끼의 상위 나무 도전 규칙은 내구도 경제와 함께 별도 구현
 - 농사를 독립 성장 스킬로 추가할지 결정한 뒤 경험치 설계
 - 씨앗·밭 확장 외 코인 사용처와 작물·목재 가격 밸런스 조정
-- 바닷가 실제 지역과 낚시터 추가 후 마을 연못의 임시 전체 어종 출현 제거
+- 해안·마을 항구 맵에 실제 바다 낚시터, 정박한 배·선장·매표소를 추가하고 볼락·우럭을 연결한 뒤 마을 연못의 임시 전체 어종 출현 제거
 
 ## 버전 관리
 

diff --git a/docs/FISHING_74_EXPANSION_DESIGN.md b/docs/FISHING_74_EXPANSION_DESIGN.md
@@ -1,15 +1,16 @@
 # 낚시 74종 확장 설계
 
-상태: **1~4단계 기반 완료 · 신규 어종·맵은 구현 전**
+상태: **1~5단계 완료 · 현재 23종 · 다음은 해안·마을 항구 맵**
 정리일: 2026-10-07
 
-이 문서는 외부에서 전달된 `낚시 확장 로스터 (확정안 · 2026-10-06)`을 현재 게임의 20종 낚시, 6종 낚싯대, 도감, 저장, 월드 구조에 맞춘 확장 기준이다. 기존 동작의 현재 기준은 [`FISHING_PLAN.md`](FISHING_PLAN.md)를 함께 따른다. 단계별 목록에서 완료로 표시한 기반 작업 외의 확장 항목은 아직 게임에 구현됐다는 뜻이 아니다.
+이 문서는 외부에서 전달된 `낚시 확장 로스터 (확정안 · 2026-10-06)`을 기존 20종 낚시와 현재 23종 런타임, 6종 낚싯대, 도감, 저장, 월드 구조에 맞춘 확장 기준이다. 기존 동작의 현재 기준은 [`FISHING_PLAN.md`](FISHING_PLAN.md)를 함께 따른다. 단계별 목록에서 완료로 표시하지 않은 확장 항목은 아직 게임에 구현됐다는 뜻이 아니다.
 
 ## 1. 확정 범위
 
 - 최종 로스터는 **10개 서식지, 총 74종**이다.
 - 기존 20종은 ID·발견 기록·보유 개체·크기 기록을 유지한다.
 - 신규 어종은 **54종**이다.
+- 이 가운데 블루길·송사리·쏘가리 3종이 5단계에서 먼저 적용되어 현재 실제 게임은 **23종**이다.
 - 등급은 `common / uncommon / rare / heroic / legendary` 다섯 단계로 유지한다.
 - 입질 뒤에는 100% 획득한다. 실패, 줄 끊김, 타이밍 미니게임은 추가하지 않는다.
 - 낚싯대는 입질 대기, 희귀 이상 상대 Weight, 큰 개체 확률을 개선하되 시간·날씨·서식지 조건을 무시하지 않는다.
@@ -438,10 +439,13 @@ description, introducedVersion
    - 모든 현재 물 영역에 서식지를 명시했다. 마을·농장은 `pond`, 기존 12개 숲은 `river`를 유지한다. 월드 검증은 누락·중복 spot ID, 알 수 없는 서식지와 서로 다른 서식지 영역의 겹침을 거부한다.
    - `scripts/qa-fishing-spots.mjs`가 14개 현재 지역과 한 맵의 연못·해안 혼합 시험, 잘린 모서리·마른 타일 제외, 이전 지역 기본값과 캐스팅 문맥 고정을 검사한다.
 
-5. **기존 맵 신규 3종**
+5. **기존 맵 신규 3종 — 완료 (2026-10-07)**
    - 블루길·송사리·쏘가리 그림과 데이터를 추가해 23종으로 확장한다.
    - 낚시 결과, 가방, 판매, 도감, 저장과 기존 보상 플래그를 검증한다.
    - 신규 어종을 마을 전체 출현 임시 정책의 핑계로 다른 서식지에 섞지 않는다.
+   - 블루길은 연못 상시 일반종, 송사리는 연못 낮 일반종, 쏘가리는 강 상시 일반종으로 연결했다. 기존 20종의 ID·수치와 5/10/15/19/20종 보상은 변경하지 않았다.
+   - 생성 원본과 정규화한 96×96 이미지를 각각 `assets/fishing/source/`와 `assets/fishing/`에 보관한다. 전체 검토 시트는 23종을 5행으로 표시한다.
+   - `scripts/qa-fishing-new-three.mjs`가 세 어종의 원래 서식지 풀, 강제 획득 결과, 가방·판매·도감 기록·저장 복원과 이미지 규격을 검사한다.
 
 ### 12.2 육지 신규 맵
 

diff --git a/assets/fishing/source/README.md b/assets/fishing/source/README.md
@@ -1,0 +1,21 @@
+# 신규 낚시 원본 제작 기록
+
+제작일: 2026-10-07
+
+블루길·송사리·쏘가리 원본은 Codex의 내장 이미지 생성 기능으로 각각 한 장씩 제작했다. 배경은 실제 투명 알파이며, `scripts/process-fish-assets.py`로 여백·알파 가장자리를 정리하고 최근접 보간해 게임용 96×96 PNG로 변환했다.
+
+공통 프롬프트는 다음 기준을 사용했다.
+
+- 용도: 아늑한 생활 시뮬레이션의 2D 물고기 도감 스프라이트 원본
+- 표현: 세밀하지만 절제된 자연색의 손그림 픽셀 아트, 해부학적으로 알아볼 수 있는 한 마리
+- 구도: 오른쪽을 보는 완전한 옆모습, 모든 지느러미와 꼬리가 보이는 중앙 배치, 넉넉한 투명 여백
+- 제한: 정확히 한 마리, 완전 투명 배경, 선명한 실루엣, 그림자·물·식물·거품·테두리·글자·로고·워터마크 없음
+- 제외: 과장된 눈과 표정, 치비 비율, 사진 배경, 여러 마리
+
+개별 대상 프롬프트:
+
+- `bluegill.png`: 깊고 타원형인 담수 선피시 체형, 작은 입, 높은 가시 등지느러미, 올리브·차분한 청색 몸, 파란 뺨과 검은 귀덮개, 주황빛 아랫가슴
+- `killifish.png`: 일본 송사리 형태의 작고 가느다란 은빛 베이지 몸, 살짝 위를 향한 입, 짧고 반투명한 지느러미, 따뜻한 금빛 등선
+- `mandarin_fish.png`: 쏘가리의 튼튼하고 길쭉한 포식자 체형, 큰 입과 높은 가시 등지느러미, 황록색 몸, 짙은 갈색 표범 무늬와 띠, 옅은 배와 힘 있는 부채꼴 꼬리
+
+생성 원본은 이 폴더에, 게임용 결과는 한 단계 위 `assets/fishing/`에 보관한다.
